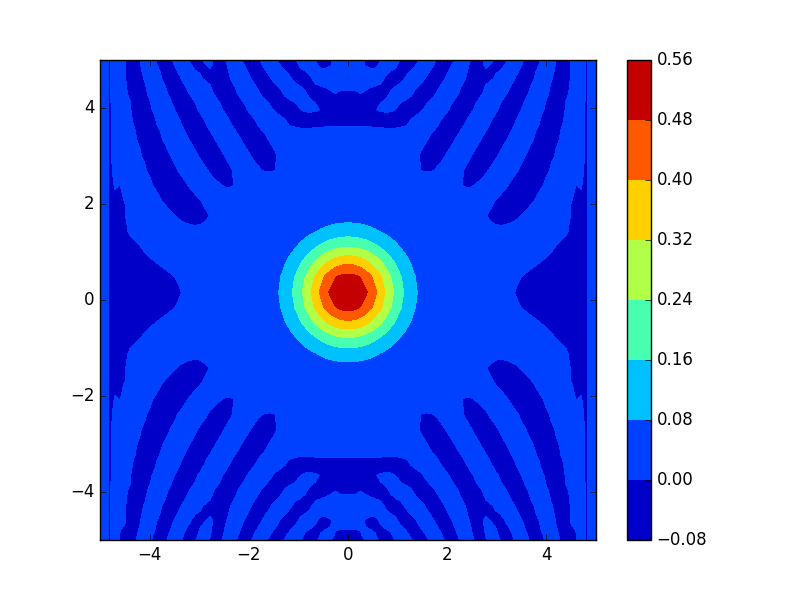
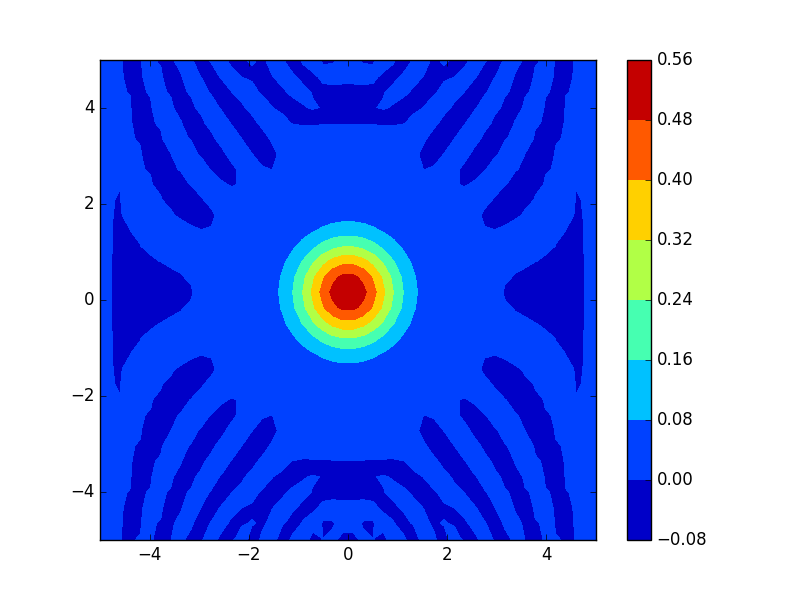
Cleaned up a little bit

diff --git a/wigner.cpp b/wigner.cpp
@@ -1,7 +1,7 @@
 #include "wigner.h"
 
 
-Wigner::Wigner(WaveFunction *wav, int _N): N(_N){
+Wigner::Wigner(WaveFunction *wav, int _N): N(_N), imagMax(0){
     values = wav->on_grid(N);
     interval = wav->interval;
 
@@ -16,53 +16,36 @@ Wigner::~Wigner(){
     fftw_free(out);
 }
 
-std::vector<std::complex<double>> Wigner::val(int n){
+std::vector<double> Wigner::val(int n){
     int toEdge = std::min(n, N-n-1);
     for(int i = -N; i < N; i++){
         if(i < -toEdge || i > toEdge){
             in[N+i][0] = 0;
             in[N+i][1] = 0;
-//            std::cout << std::complex<double>(0,0);
         }
         else{
             std::complex<double> value = std::conj(values[n-i])*values[n+i];
             in[N+i][0] = value.real();
             in[N+i][1] = value.imag();
-//            std::cout << value;
         }
     }
-    std::cout << std::endl;
 
-    for(int i = 0; i < 2*N; i++){
-        std::cout << "(" << in[i][0] << "," << in[i][1] << ")";
-    }
-
-//    std::cout << std::endl;
     fftw_execute(p);
-    std::vector<std::complex<double>> result(N);
-//    std::cout << "Full DFT:" << std::endl;
-//    for(int i = 0; i < 2*N; i++){
-//        std::cout << std::complex<double>(out[i][0], out[i][1]);
-//    }
-//    std::cout << std::endl;
+    std::vector<double> result(N);
 
-    std::cout << "F:" << std::endl;
     for(int i = 0; i < (N+1)/2; i++){
-        result[i+N/2] = interval/N/M_PI*std::complex<double>(out[2*i][0], out[2*i][1]);
-//        std::cout << std::complex<double>(out[2*i][0], out[2*i][1]);
+        result[i+N/2] = interval/N/M_PI*out[2*i][0];
+        if(fabs(out[2*i][1]) > imagMax) imagMax = fabs(out[2*i][1]);
     }
     for(int i = (N+1)/2; i < N; i++){
-        result[i-(N+1)/2] = interval/N/M_PI*std::complex<double>(out[2*i][0], out[2*i][1]);
-//        std::cout << std::complex<double>(out[2*i][0], out[2*i][1]);
-    }
-    std::cout << std::endl;
-
-    std::cout << "Result for p:" << std::endl;
-    for(int i = 0; i < N; i++){
-        std::cout << result[i];
+        result[i-(N+1)/2] = interval/N/M_PI*out[2*i][0];
+        if(fabs(out[2*i][1]) > imagMax) imagMax = fabs(out[2*i][1]);
     }
 
-    std::cout << std::endl;
+    if(imagMax > 1e-10){
+        ABORT("GETTING IMAGINARY VALUES FOR THE WIGNER DISTRIBUTION");
+    }
+
     return result;
 }
 
@@ -73,13 +56,11 @@ void Wigner::writeFile(std::string filename){
     file << interval << std::endl;
 
     for(int i = 0; i < N; ++i){
-        std::vector<std::complex<double>> vals = val(i);
+        std::vector<double> vals = val(i);
         for(int j = 0; j < N; ++j){
             file << vals[j] << " ";
-            std::cout << vals[j] << " ";
         }
-        std::cout << std::endl;
     }
-    std::cout<< std::endl;
     file.close();
+
 }

diff --git a/main.cpp b/main.cpp
@@ -8,72 +8,16 @@ std::complex<double> f1(double x){
     return std::complex<double>(exp(-x*x/2), 0);
 }
 
-//void fftwTest(){
-//    std::vector<double> reals = {0,0,0,0,0,0,6.1349e-5,0,0,0,0,0};
-////    std::vector<std::complex<double>> vec = {std::complex<double>(0,0), std::complex<double>(1,0), std::complex<double>(0,0)};
-
-//    int N = reals.size();
-//    fftw_complex *in, *out;
-//    fftw_plan p;
-
-//    in = (fftw_complex*) fftw_malloc(sizeof(fftw_complex) * N);
-//    out = (fftw_complex*) fftw_malloc(sizeof(fftw_complex) * N);
-//    p = fftw_plan_dft_1d(N, in, out, FFTW_FORWARD, FFTW_ESTIMATE);
-
-//    for(int i = 0; i < N; i++){
-//        in[i][0] = reals[i];
-//        in[i][1] = 0;
-//    }
-
-//    for(int i = 0; i < N; i++){
-//        std::cout << "(" << in[i][0] << "," << in[i][1] << ")";
-//    }
-//    std::cout << std::endl;
-
-//    fftw_execute(p);
-
-//    for(int i = 0; i < N; i++){
-//        std::cout << std::complex<double>(out[i][0], out[i][1]);
-//    }
-//    std::cout << std::endl;
-//}
-
 
 int main()
 {
-//    fftwTest();
     double L = 5;
     LegendreScaled basis(20,-L,L);
     WaveFunction wav(&basis);
     wav.set(f1);
-    Wigner wig(&wav, 100);
-
-//    std::cout << "Val at 0:" << std::endl;
-//    wig.val(0);
-//    std::cout << "Val at 3:" << std::endl;
-//    wig.val(3);
-//    std::cout << std::endl;
-
-//    std::vector<std::complex<double>> vals = wig.val(2);
-//    std::cout << vals.size() << std::endl;
+    Wigner wig(&wav, int(50));
 
     wig.writeFile("test1.txt");
-
-    std::cout << "Test value:" << std::endl;
-    wig.val(7);
-
-//    Eigen::VectorXcd vec = wav.vector;
-//    for(int i = 0; i < vec.size(); ++i){
-//        cout << vec(i) << " ";
-//    }
-
-//    std::cout << "Values: " << std::endl;
-//    std::vector<std::complex<double>> vec = wig.values;
-//    for(int i = 0; i < vec.size(); ++i){
-//        cout << vec[i] << " ";
-//    }
-
-//    std::cout << std::endl;
 
     return 0;
 }

diff --git a/plot.py b/plot.py
@@ -4,19 +4,16 @@ import numpy
 
 file = open("test1.txt")
 interval = float(file.readline())
-data = [list(map(float,x.strip("()").split(","))) for x in file.read().split()]
+data = [float(x) for x in file.read().split()]
 file.close()
 ##print(data)
 
-print(interval)
-
 N = int(math.sqrt(len(data)))
 
-##mag = [x[0]*x[0]+x[1]*x[1] for x in data]
-mag = [x[0] for x in data]
-##print(mag)
-Z = numpy.array(mag).reshape((N,N))
-print(Z)
+print("On graph, X points: {}, P points: {:.0f}".format(N, interval*interval/math.pi))
+
+Z = numpy.array(data).reshape((N,N))
+##print(Z)
 
 x = numpy.linspace(-interval/2, interval/2,N)
 p = numpy.linspace(-math.pi*N/(2*interval),math.pi*N/(2*interval),N)
@@ -27,6 +24,7 @@ X,P = numpy.meshgrid(x,p,indexing='ij')
 
 plt.figure()
 plt.contourf(X, P, Z)
+plt.xlim(-interval/2,interval/2)
 plt.ylim(-interval/2,interval/2)
 plt.colorbar()
 plt.savefig("test1.png")

diff --git a/wigner.h b/wigner.h
@@ -7,6 +7,7 @@
 #include <fstream>
 #include <iostream>
 #include <math.h>
+#include <abort.h>
 
 class Wigner{
 public:
@@ -15,12 +16,13 @@ public:
     int N;
     std::vector<std::complex<double>> values;
     double interval;
+    double imagMax;
 
 
     Wigner(WaveFunction *wav, int N = 100);
     ~Wigner();
 
-    std::vector<std::complex<double>> val(int n);
+    std::vector<double> val(int n);
 
     void writeFile(std::string filename);
 
